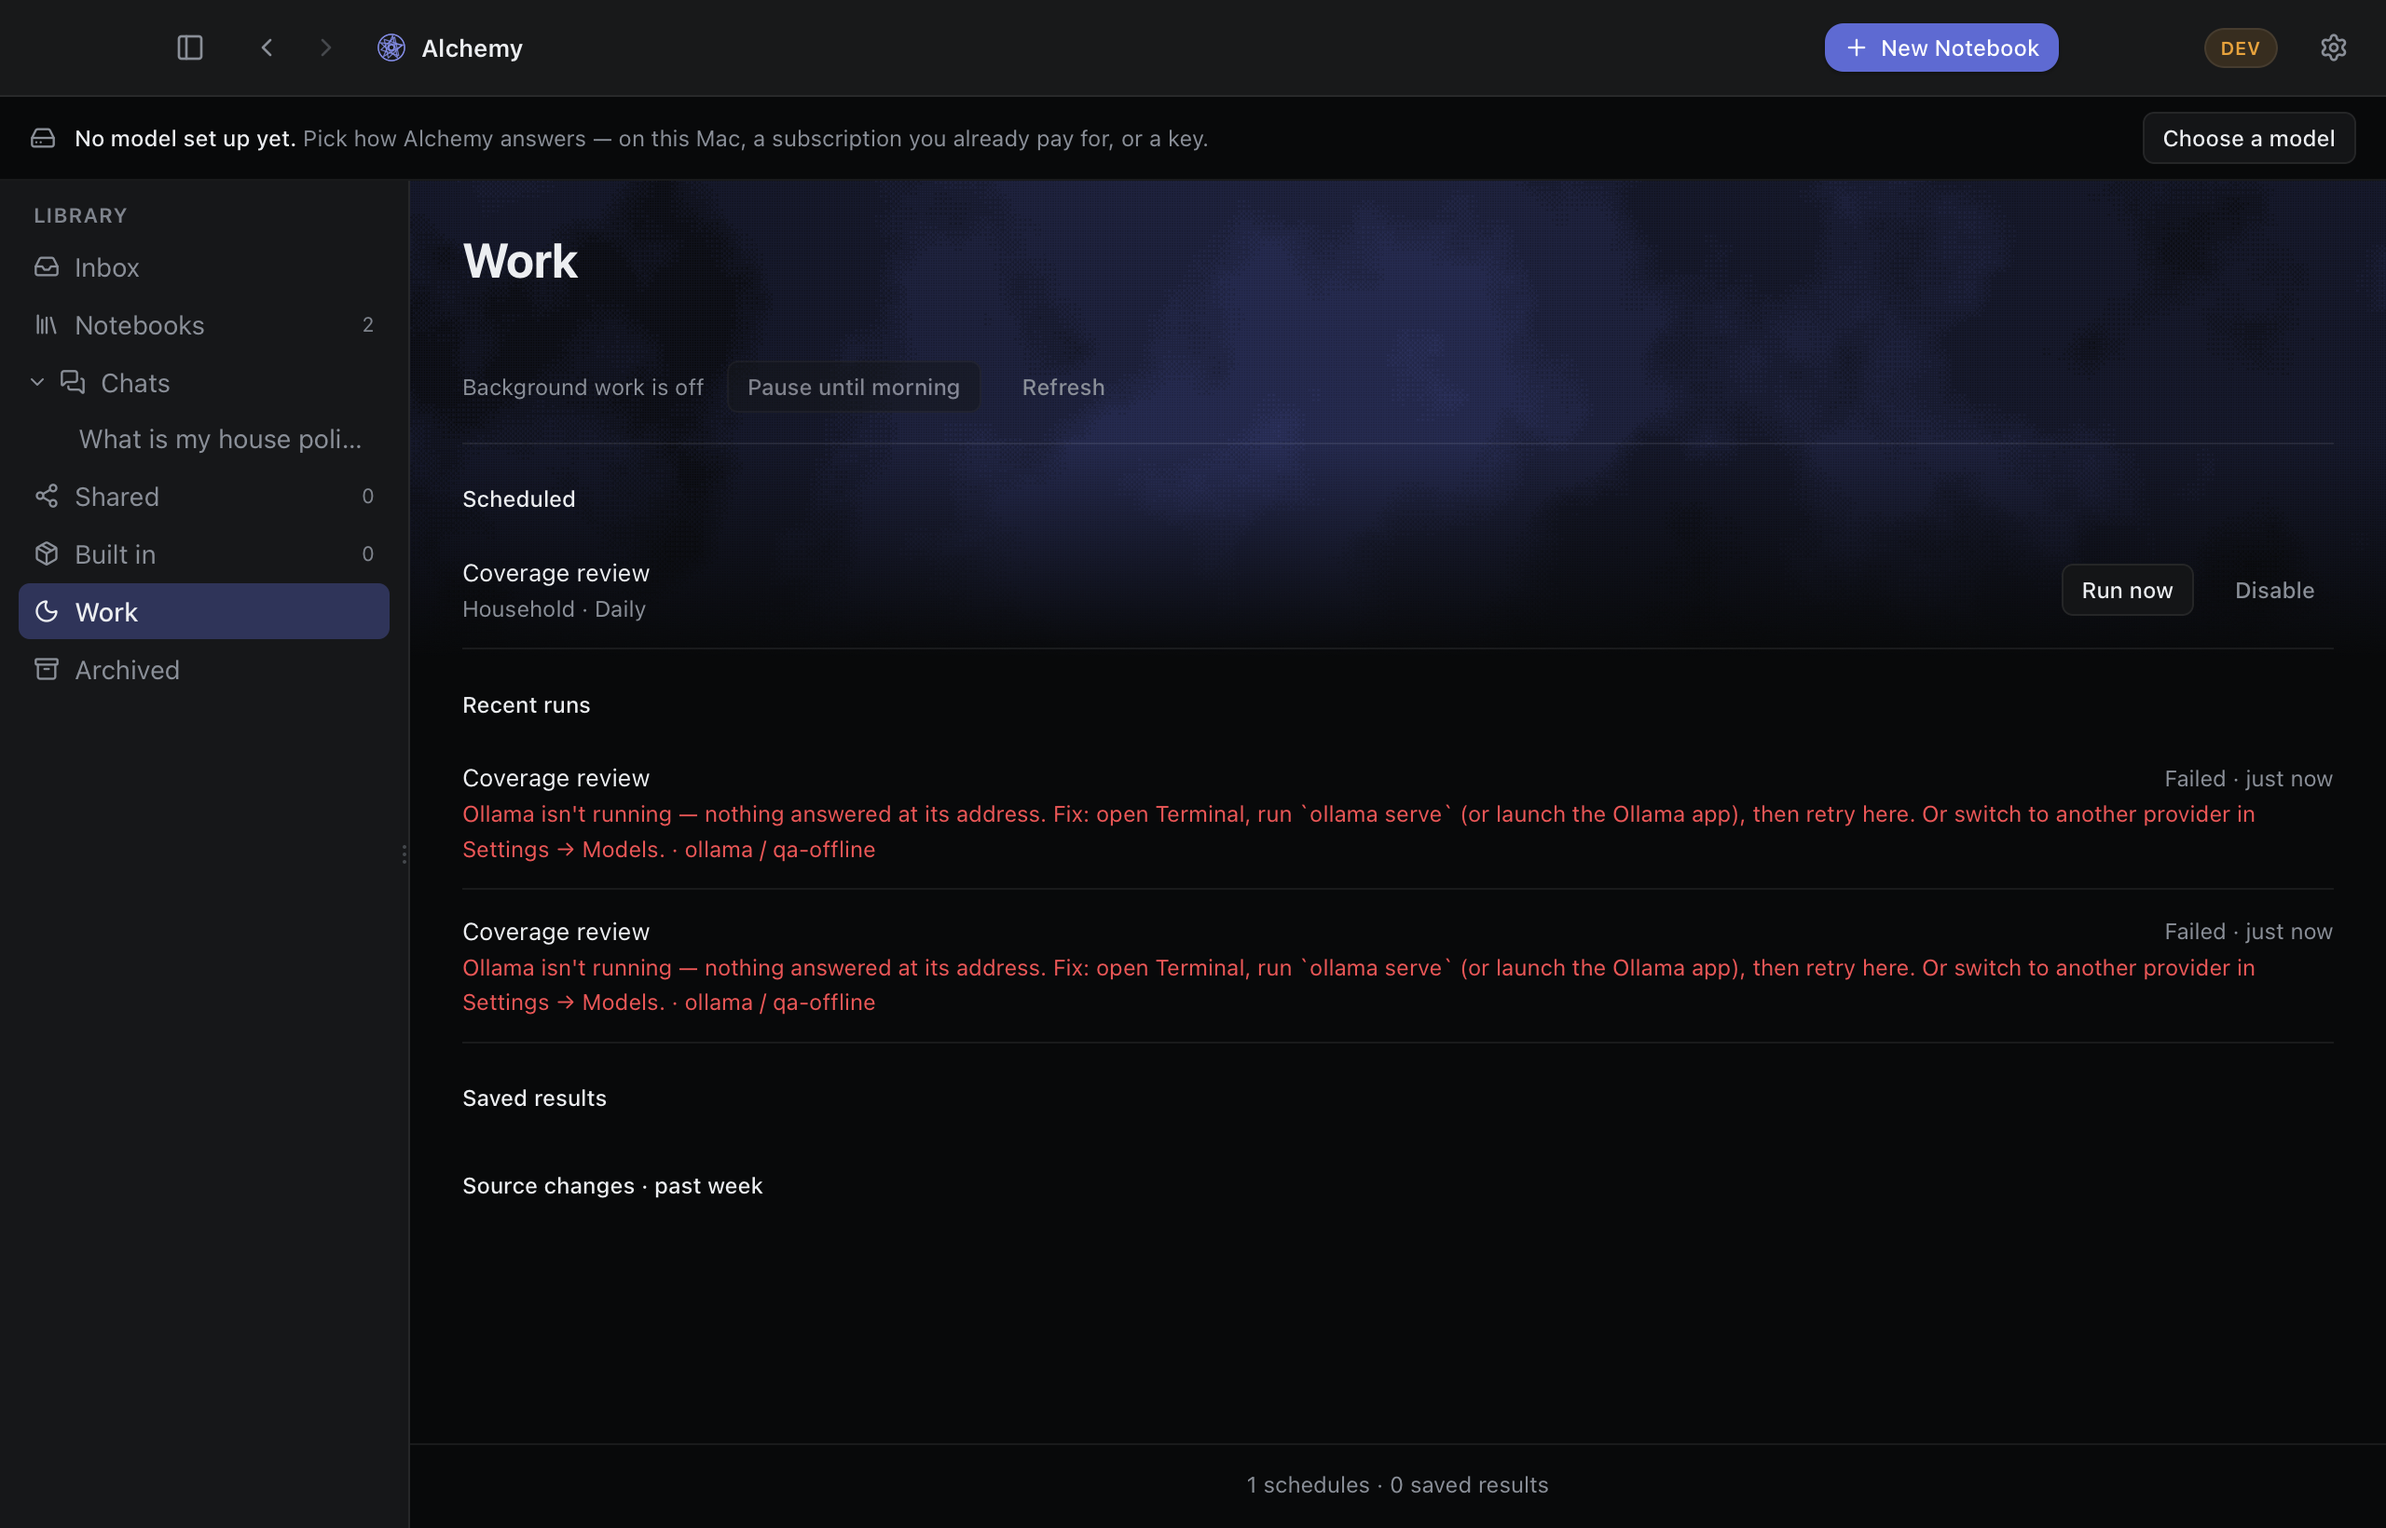
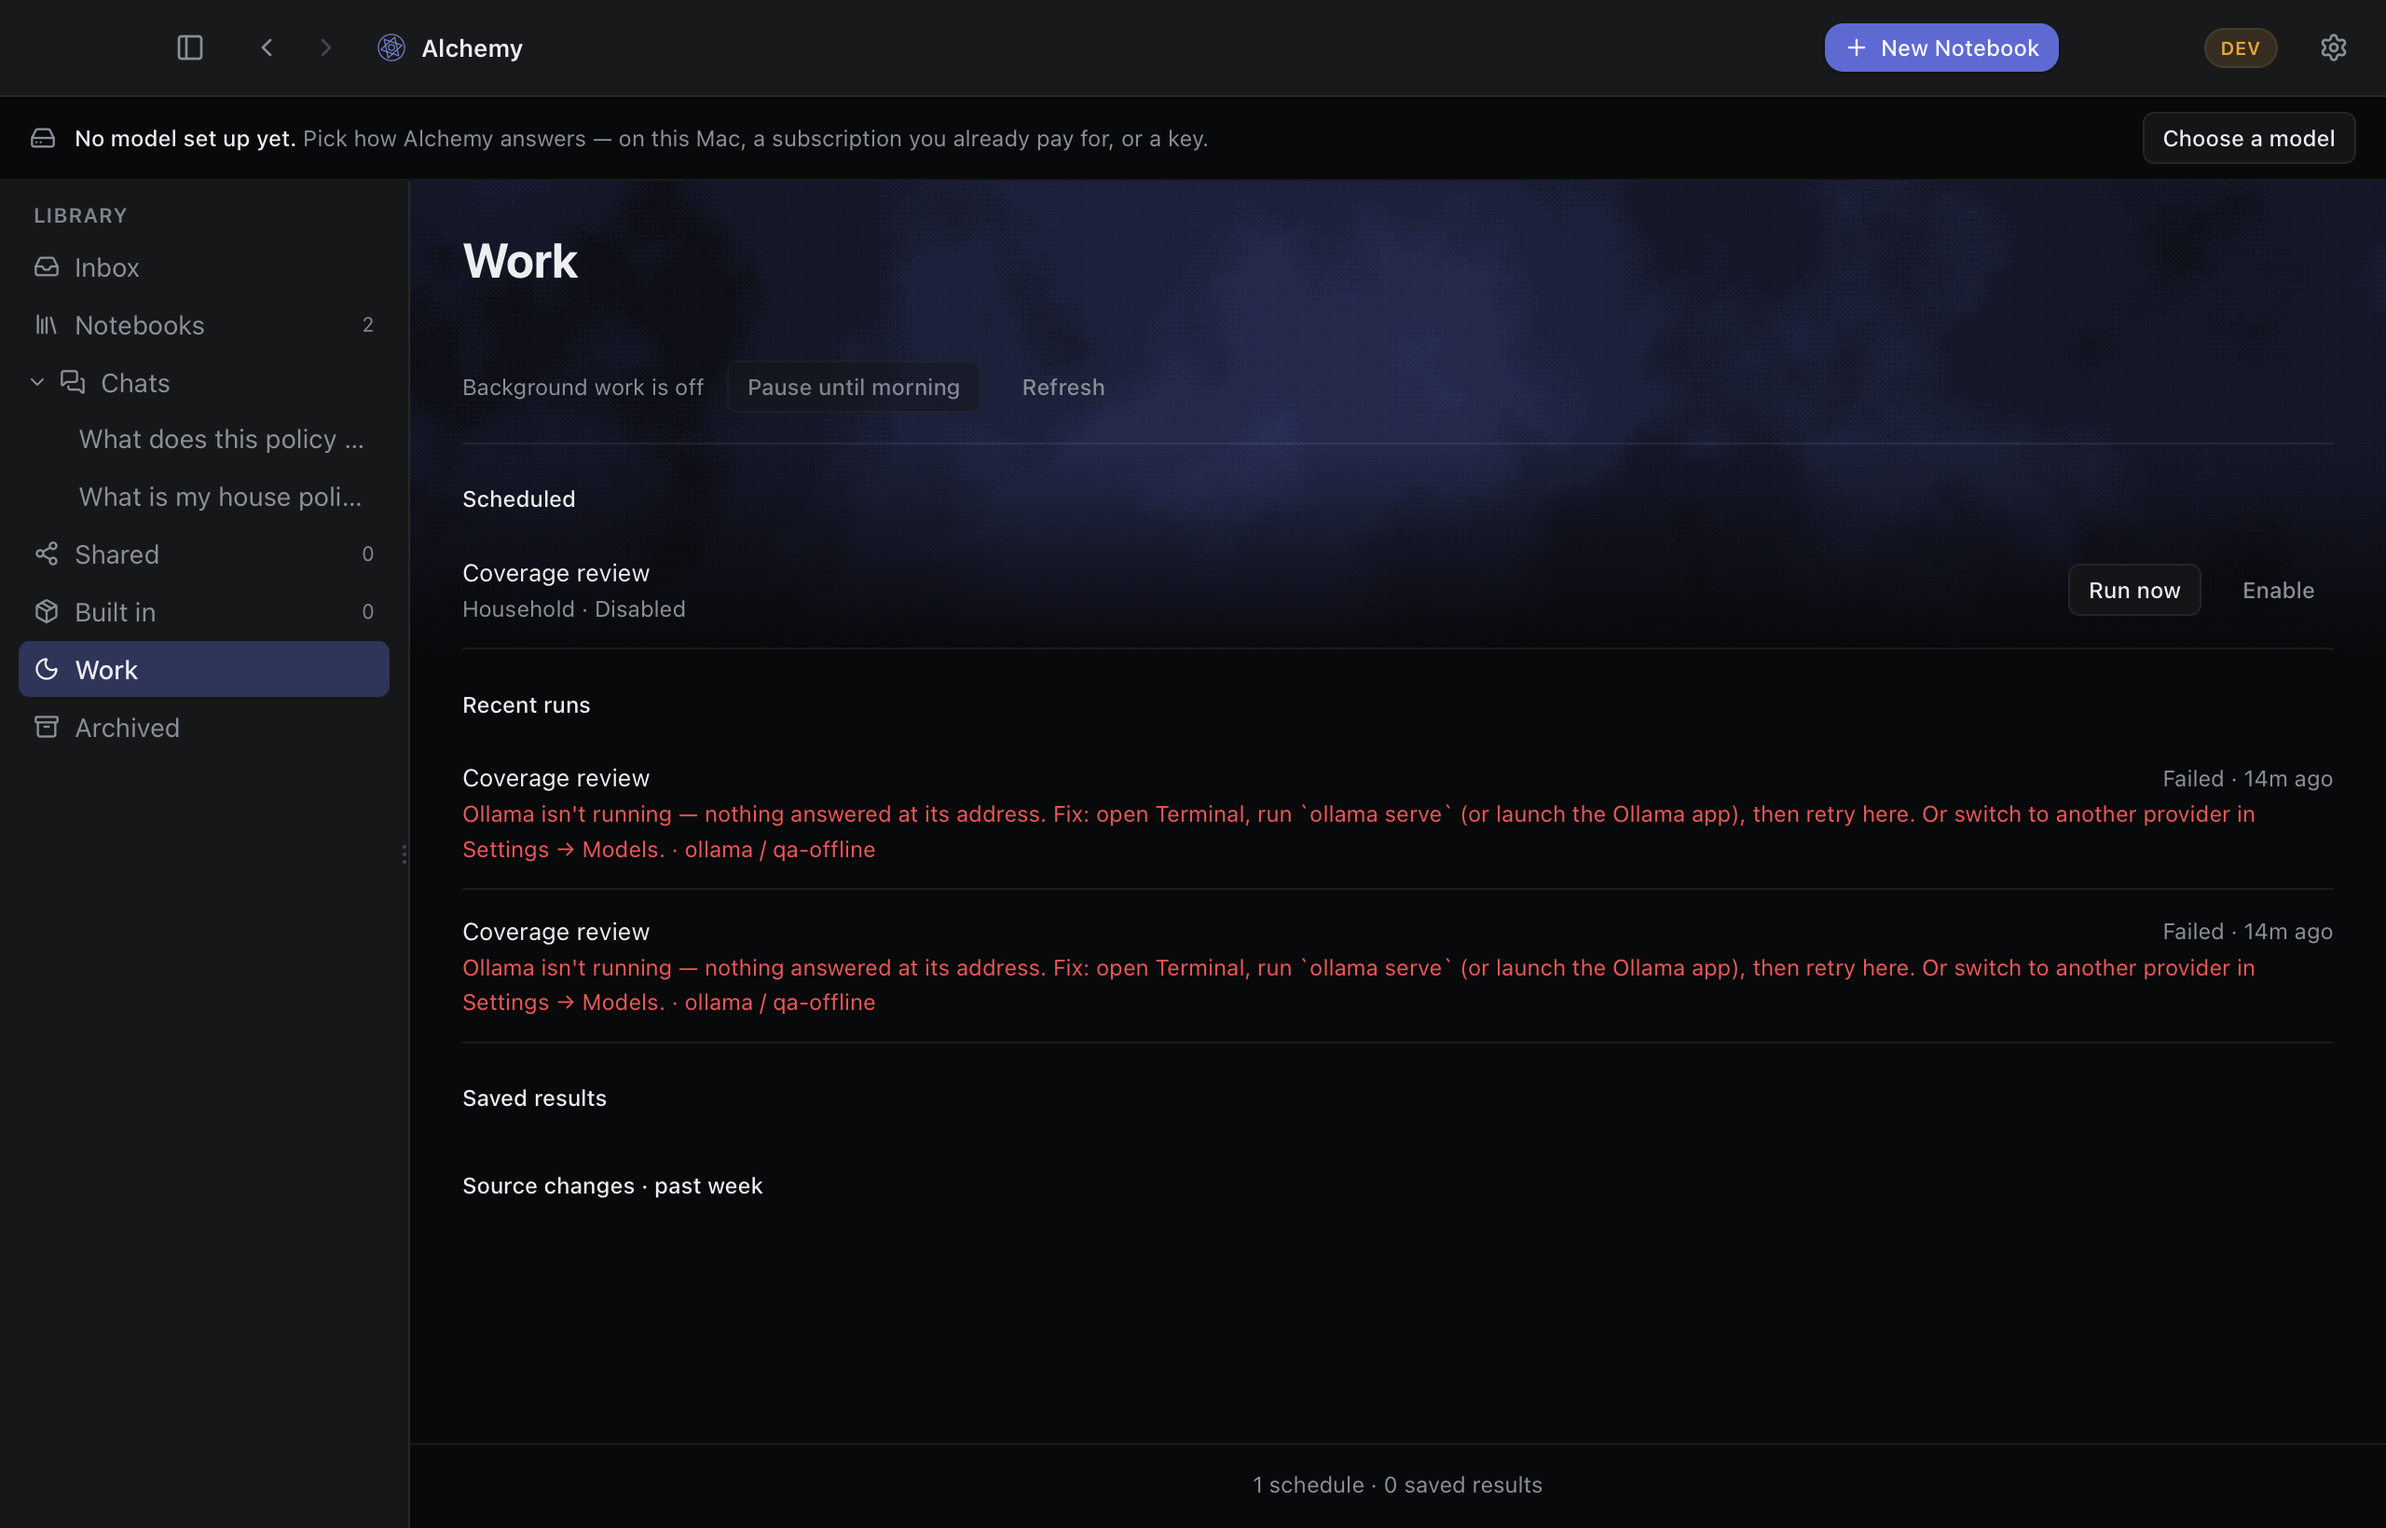
Record final native ablation verification

diff --git a/docs/RFC-ablation.md b/docs/RFC-ablation.md
@@ -73,11 +73,18 @@ or global agent connector configuration.
   backup, old citation to note, note link to a source in another notebook,
   static Notion refresh/child preservation, exact-identifier search,
   scoped-turn persistence and restoration, failed manual-run receipts,
-  active-run cleanup, and schedule enable/disable. No live generation or
+  active-run cleanup, schedule enable/disable, new-chat reset to All notebooks,
+  and restart without duplicate notes or backup changes. No live generation or
   migration of the primary library was used for these checks.
 - Screenshots: [Work](screenshots/paul-26/work.png),
   [preserved note](screenshots/paul-26/preserved-note.png),
   [chat scope](screenshots/paul-26/chat-scope.png).
+
+The final ad-hoc QA bundle stalled during a synchronous read of the global
+templates folder after a Launch Services launch. The same bundle launched
+from the development session completed the checks above. This separate
+startup issue is tracked as [PAUL-210](https://linear.app/paul-thrasher/issue/PAUL-210);
+no templates or primary-library data were changed to work around it.
 
 ## Clarifications and decisions: 2026-10-11
 
